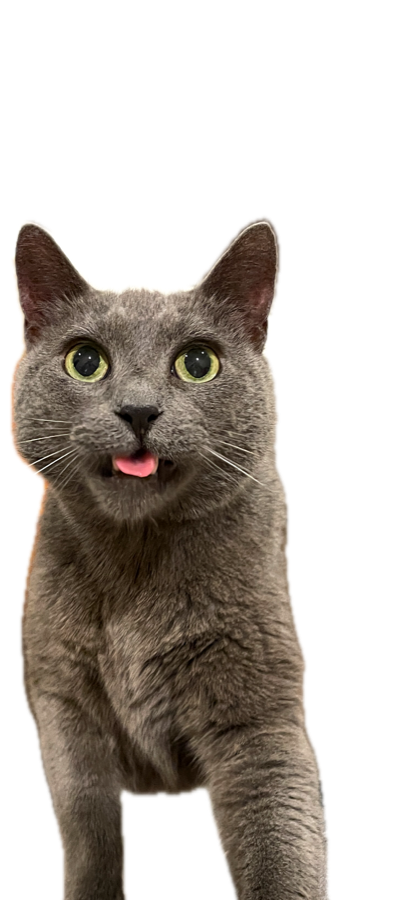
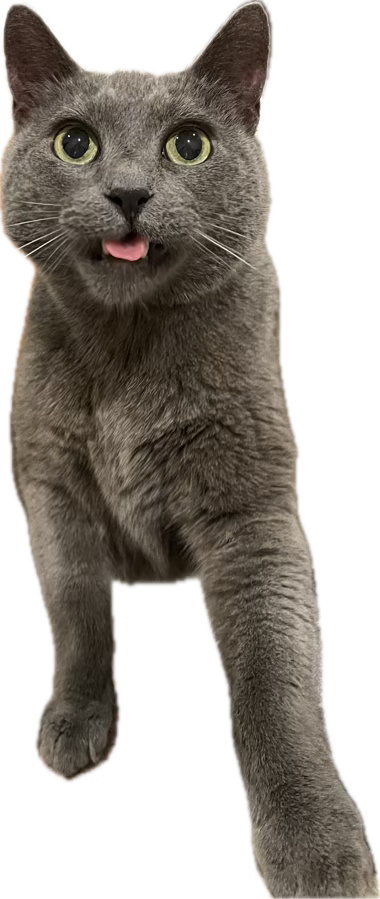
Rename app to Purrtners and update cat assets

diff --git a/src/main/main.js b/src/main/main.js
@@ -167,7 +167,7 @@ function openSettings() {
   settingsWindow = new BrowserWindow({
     width: 520,
     height: 640,
-    title: 'Cat Companion',
+    title: 'Purrtners',
     resizable: false,
     minimizable: false,
     maximizable: false,
@@ -241,7 +241,7 @@ function buildTray() {
     : nativeImage.createEmpty();
   try {
     tray = new Tray(image.isEmpty() ? nativeImage.createEmpty() : image);
-    tray.setToolTip('Cat Companion');
+    tray.setToolTip('Purrtners');
     tray.setContextMenu(buildDockMenu());
   } catch (e) {
     // Tray creation can fail in headless envs; that's OK.

diff --git a/src/cats/java.js b/src/cats/java.js
@@ -29,7 +29,7 @@ module.exports = {
     walk: pose('java_walk.png', 'walk'),
     sleep: pose('java_sleep.png', 'sleep'),
     alert: pose('java_alert.png', 'alert'),
-    bellyUp: pose('java_bellyUp.png', 'belly up'),
+    bellyUp: pose('java_idle_lie.png', 'belly up'),
     sitLegUp: pose('java_sitLegUp.png', 'sit leg up'),
     groom: pose('java_groom.png', 'groom'),
   },

diff --git a/src/renderer/settings/settings.html b/src/renderer/settings/settings.html
@@ -2,12 +2,12 @@
 <html>
   <head>
     <meta charset="utf-8" />
-    <title>Cat Companion 设置</title>
+    <title>Purrtners 设置</title>
     <link rel="stylesheet" href="settings.css" />
   </head>
   <body>
     <header>
-      <h1>Cat Companion</h1>
+      <h1>Purrtners</h1>
       <p class="sub">让馍馍和 Java 住进你的 Dock</p>
     </header>
 

diff --git a/src/cats/momo.js b/src/cats/momo.js
@@ -25,7 +25,7 @@ module.exports = {
   accentColor: '#68aeda',
   defaultSize: { width: 230, height: 190 },
   poses: {
-    idle: pose('momo_idle.png', 'idle'),
+    idle: pose('momo_sit.png', 'idle'),
     walk: pose('momo_walk.png', 'walk'),
     sleep: pose('momo_sleep.png', 'sleep'),
     alert: pose('momo_alert.png', 'alert'),

diff --git a/src/main/store.js b/src/main/store.js
@@ -2,7 +2,7 @@ const fs = require('node:fs');
 const path = require('node:path');
 const { app } = require('electron');
 
-const FILE = path.join(app.getPath('userData'), 'cat-companion-settings.json');
+const FILE = path.join(app.getPath('userData'), 'purrtners-settings.json');
 
 const DEFAULTS = {
   activeCatIds: ['momo'],

diff --git a/docs/PUBLISHING.md b/docs/PUBLISHING.md
@@ -14,19 +14,19 @@ Artifacts are written to `dist/`.
 For Apple Silicon Macs, share:
 
 ```text
-dist/Cat Companion-0.1.0-arm64.dmg
+dist/Purrtners-0.2.0-arm64.dmg
 ```
 
 For Intel Macs, share:
 
 ```text
-dist/Cat Companion-0.1.0.dmg
+dist/Purrtners-0.2.0.dmg
 ```
 
 ## GitHub Release Flow
 
 1. Push the repo to GitHub.
-2. Create a release, for example `v0.1.0`.
+2. Create a release, for example `v0.2.0`.
 3. Upload the `.dmg` files from `dist/` as release assets.
 4. Share the release URL.
 
@@ -35,18 +35,18 @@ dist/Cat Companion-0.1.0.dmg
 After uploading a DMG somewhere public, users can install with:
 
 ```bash
-curl -L "YOUR_DMG_URL" -o /tmp/cat-companion.dmg && \
-hdiutil attach /tmp/cat-companion.dmg && \
-cp -R "/Volumes/Cat Companion/Cat Companion.app" /Applications/ && \
-hdiutil detach "/Volumes/Cat Companion" && \
-open "/Applications/Cat Companion.app"
+curl -L "YOUR_DMG_URL" -o /tmp/purrtners.dmg && \
+MOUNT="$(hdiutil attach /tmp/purrtners.dmg | awk '/\/Volumes\//{print substr($0,index($0,"/Volumes/"))}' | tail -1)" && \
+cp -R "$MOUNT/Purrtners.app" /Applications/ && \
+hdiutil detach "$MOUNT" && \
+open "/Applications/Purrtners.app"
 ```
 
 If macOS blocks the unsigned app:
 
 ```bash
-xattr -dr com.apple.quarantine "/Applications/Cat Companion.app"
-open "/Applications/Cat Companion.app"
+xattr -dr com.apple.quarantine "/Applications/Purrtners.app"
+open "/Applications/Purrtners.app"
 ```
 
 ## Source Install
@@ -54,8 +54,8 @@ open "/Applications/Cat Companion.app"
 For users comfortable with Node:
 
 ```bash
-git clone <repo-url> cat-companion
-cd cat-companion
+git clone <repo-url> purrtners
+cd purrtners
 npm install
 npm start
 ```

diff --git a/README.md b/README.md
@@ -1,4 +1,4 @@
-# Cat Companion
+# Purrtners
 
 A small macOS desktop pet app. Cats live in the Dock, wander around the desktop, nap for long stretches, and occasionally remind you to drink water or take a break.
 
@@ -30,8 +30,8 @@ Requirements:
 - Node.js 18+
 
 ```bash
-git clone <your-repo-url> cat-companion
-cd cat-companion
+git clone <your-repo-url> purrtners
+cd purrtners
 npm install
 npm start
 ```
@@ -48,15 +48,15 @@ npm run dist:mac:local
 
 Outputs are written to `dist/`:
 
-- `Cat Companion-<version>-arm64.dmg`
-- `Cat Companion-<version>.dmg`
+- `Purrtners-<version>-arm64.dmg`
+- `Purrtners-<version>.dmg`
 - matching `.zip` files
 
 The app is not signed/notarized. On another Mac, if Gatekeeper blocks it:
 
 ```bash
-xattr -dr com.apple.quarantine "/Applications/Cat Companion.app"
-open "/Applications/Cat Companion.app"
+xattr -dr com.apple.quarantine "/Applications/Purrtners.app"
+open "/Applications/Purrtners.app"
 ```
 
 More release notes: [`docs/PUBLISHING.md`](docs/PUBLISHING.md).
@@ -76,7 +76,7 @@ More release notes: [`docs/PUBLISHING.md`](docs/PUBLISHING.md).
 Settings are stored at:
 
 ```text
-~/Library/Application Support/cat-companion/cat-companion-settings.json
+~/Library/Application Support/purrtners/purrtners-settings.json
 ```
 
 Settings include active cats, reminder interval, reminder duration, nickname, reminder text, and cat scale.

diff --git a/docs/ASSETS.md b/docs/ASSETS.md
@@ -1,6 +1,6 @@
 # Cat Asset Guide
 
-Cat Companion uses PNG images for each pose. The renderer wraps each image in a transparent Electron window and applies CSS animation.
+Purrtners uses PNG images for each pose. The renderer wraps each image in a transparent Electron window and applies CSS animation.
 
 ## Where Assets Live
 
